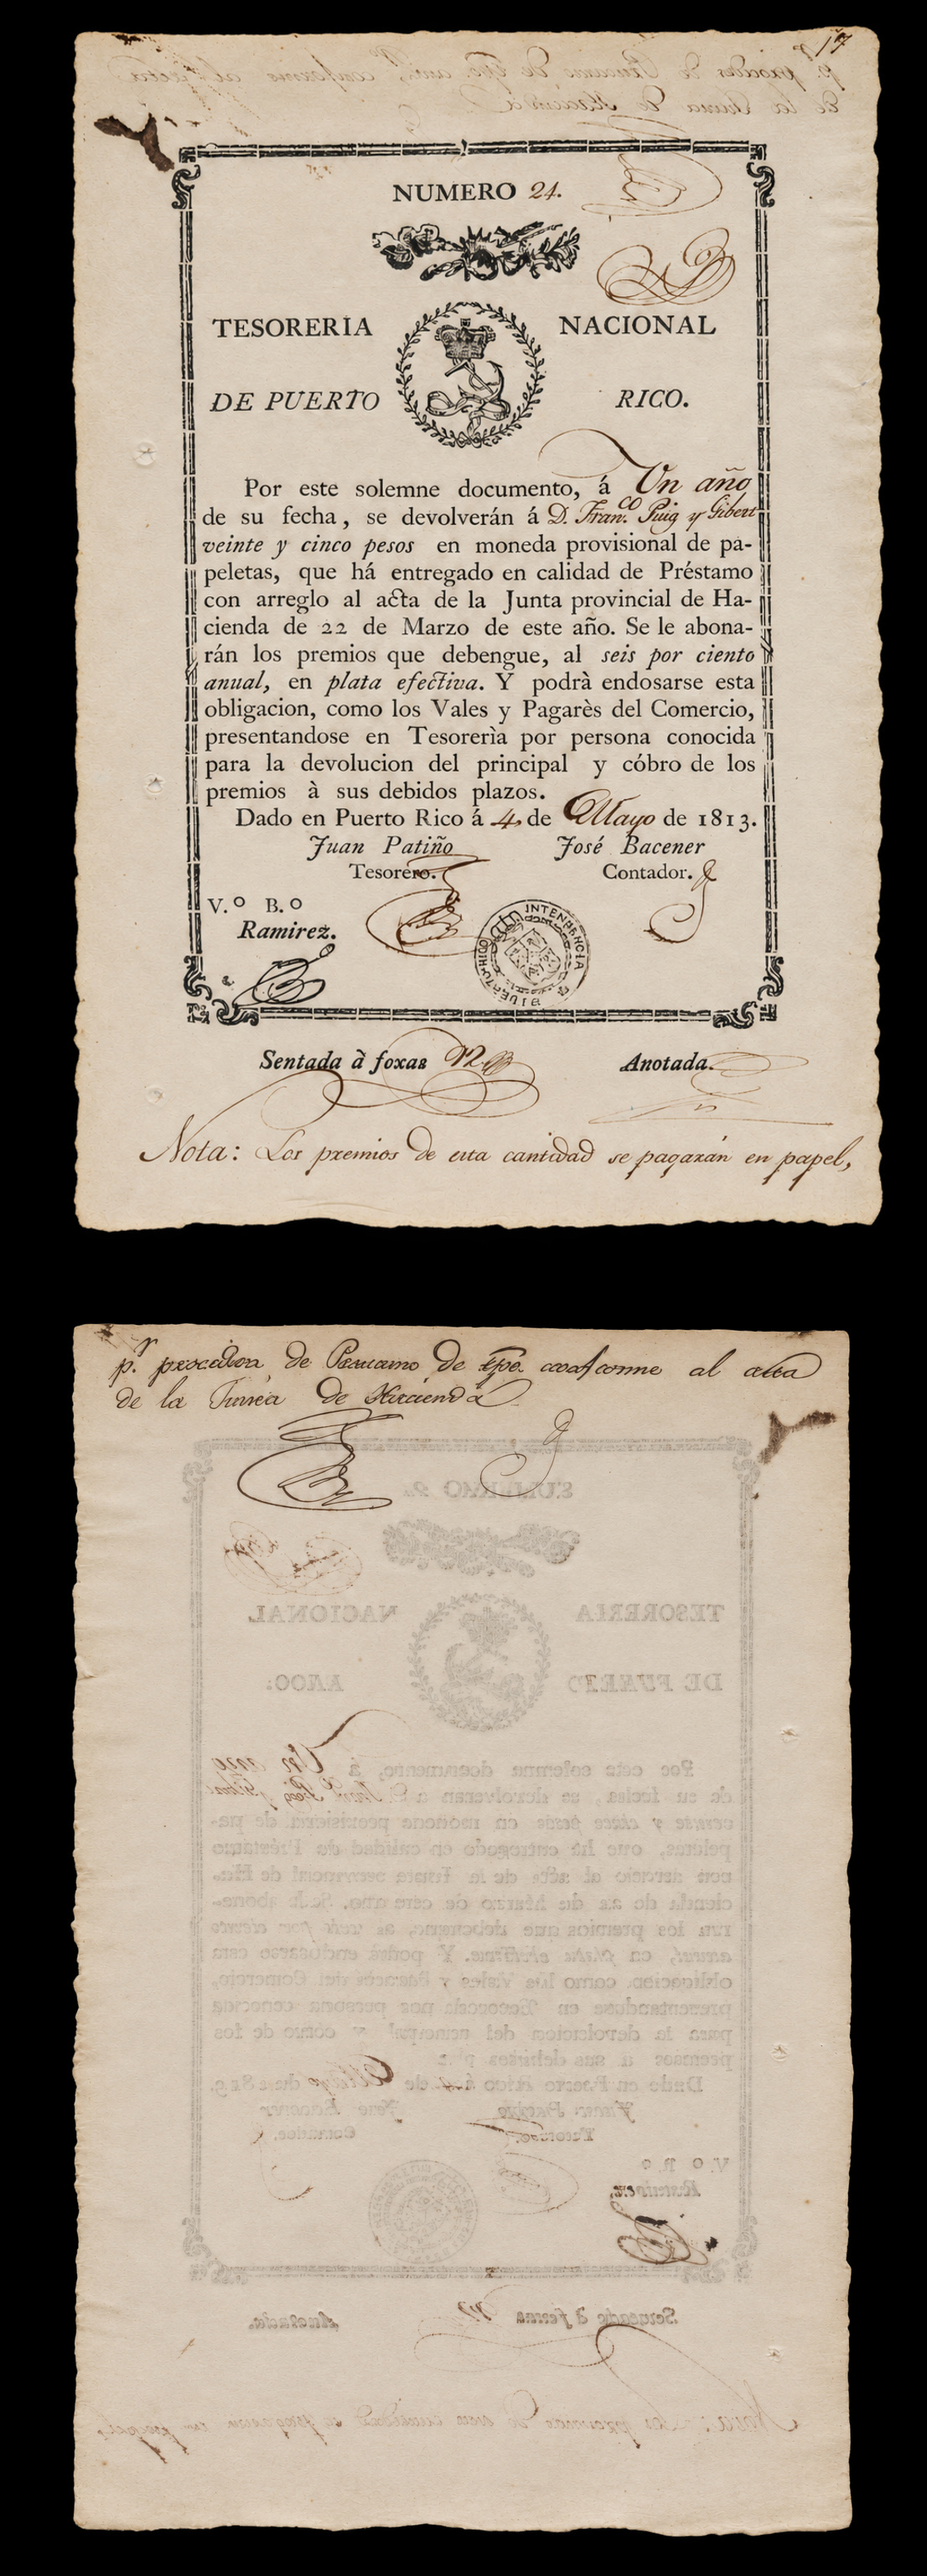
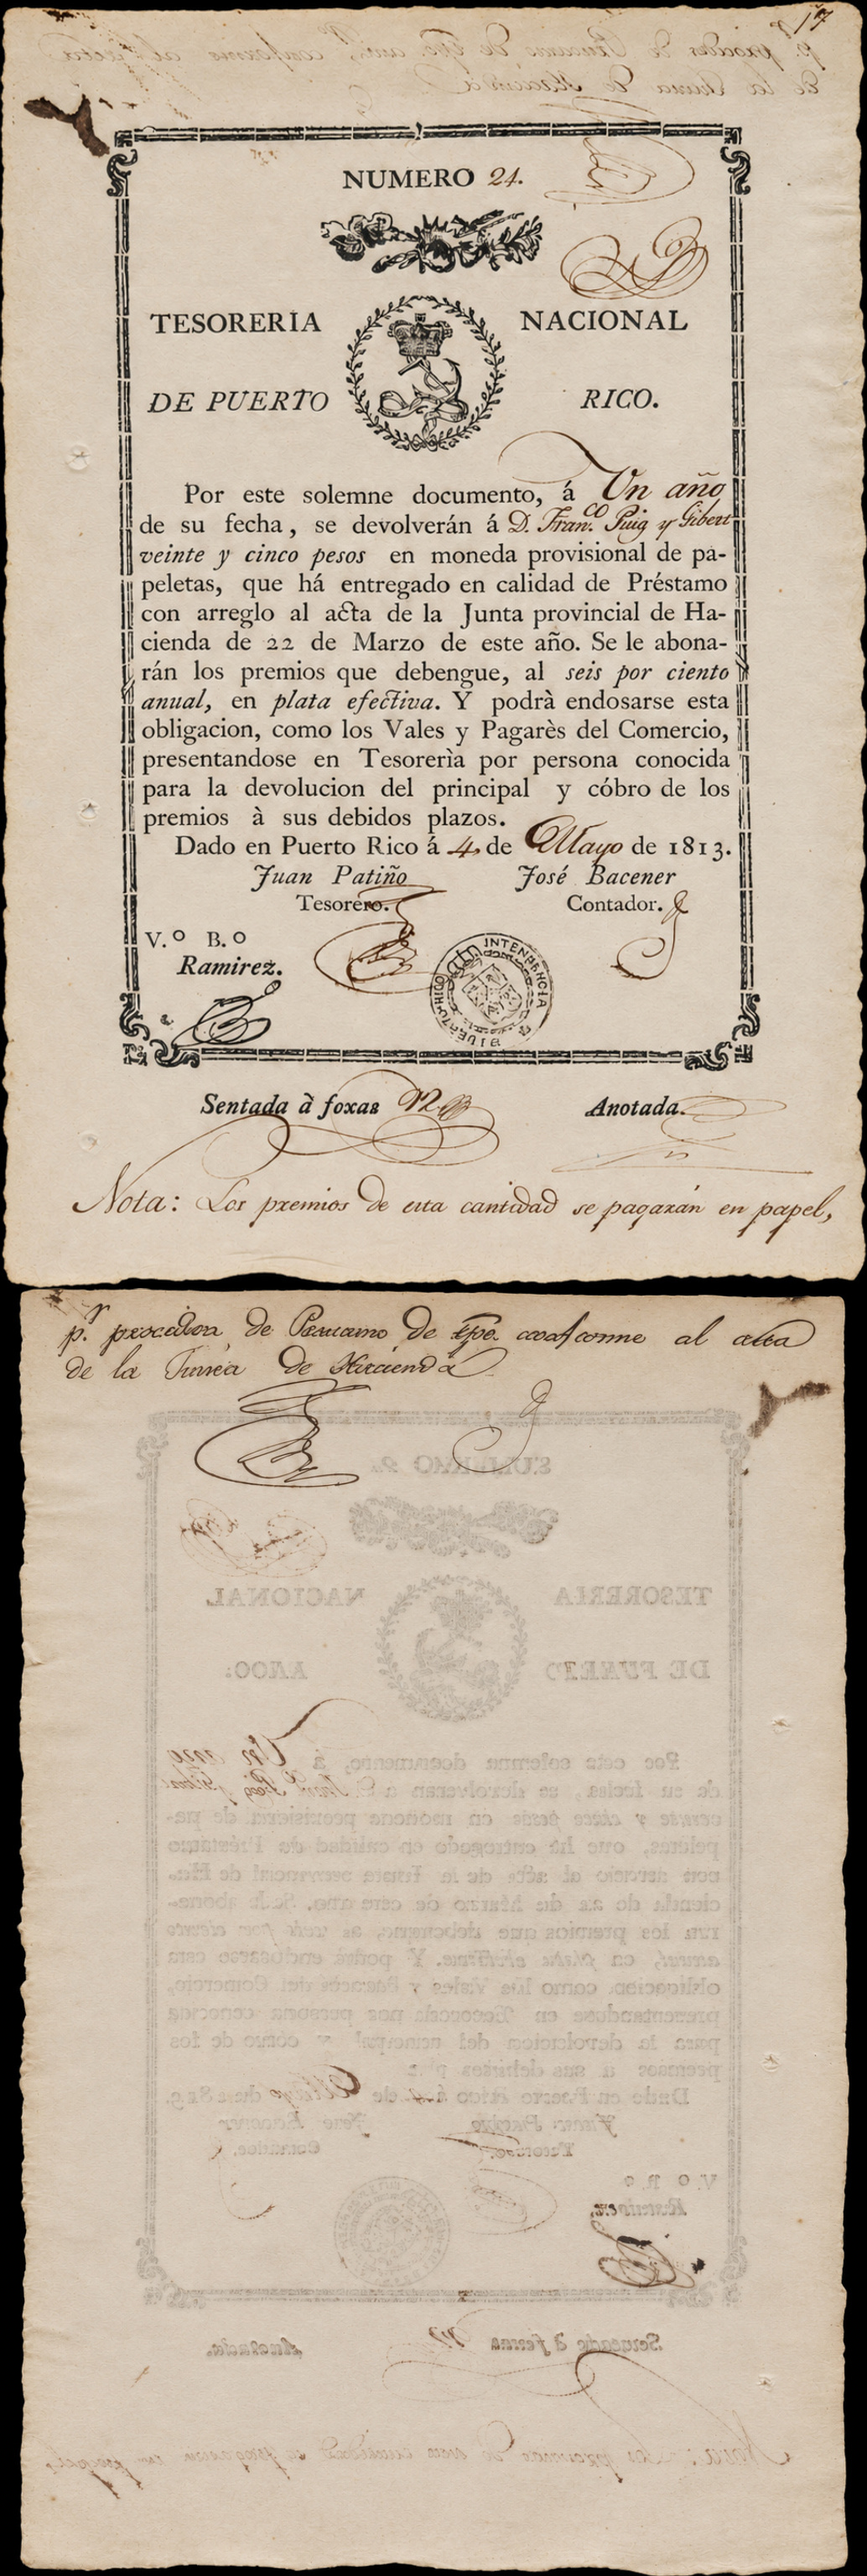
Align the 1813 Treasury sheets to the same height.
Crop each scan to the paper and scale both sheets to 1536 pixels tall so the tops and bottoms meet. Bump the catalog scan cache key so Cloudflare serves the new frames.

diff --git a/src/data/puerto-rico.ts b/src/data/puerto-rico.ts
@@ -183,9 +183,9 @@ export const puertoRicoNotes: PuertoRicoNote[] = [
         '/images/catalog/puerto-rico/puerto-rico-tesoreria-nacional-obligacion-25-pesos-1813-24-front.jpg',
       back:
         '/images/catalog/puerto-rico/puerto-rico-tesoreria-nacional-obligacion-25-pesos-1813-24-back.jpg',
-      frontWidth: 1106,
+      frontWidth: 1034,
       frontHeight: 1536,
-      backWidth: 1106,
+      backWidth: 1034,
       backHeight: 1536,
     },
     title: {

diff --git a/src/lib/images.ts b/src/lib/images.ts
@@ -10,7 +10,7 @@ export const CATALOG_HERO_VERSION = '20260829';
  * Cloudflare Image Resizing keeps the previous file for hours; the query
  * forces the homepage card and the note srcset onto the new frame.
  */
-export const CATALOG_SCAN_VERSION = '20261103';
+export const CATALOG_SCAN_VERSION = '20261108';
 
 export function catalogAssetSrc(src: string, version: string = CATALOG_HERO_VERSION): string {
   if (!version || !src.startsWith('/')) return src;
